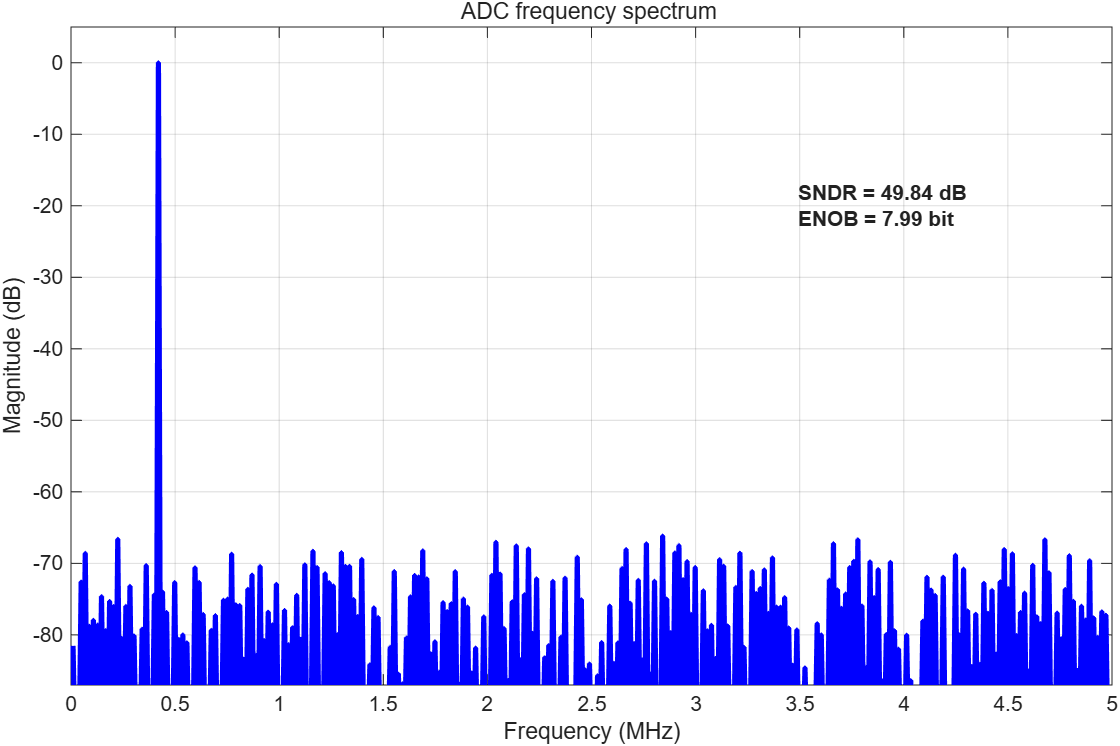
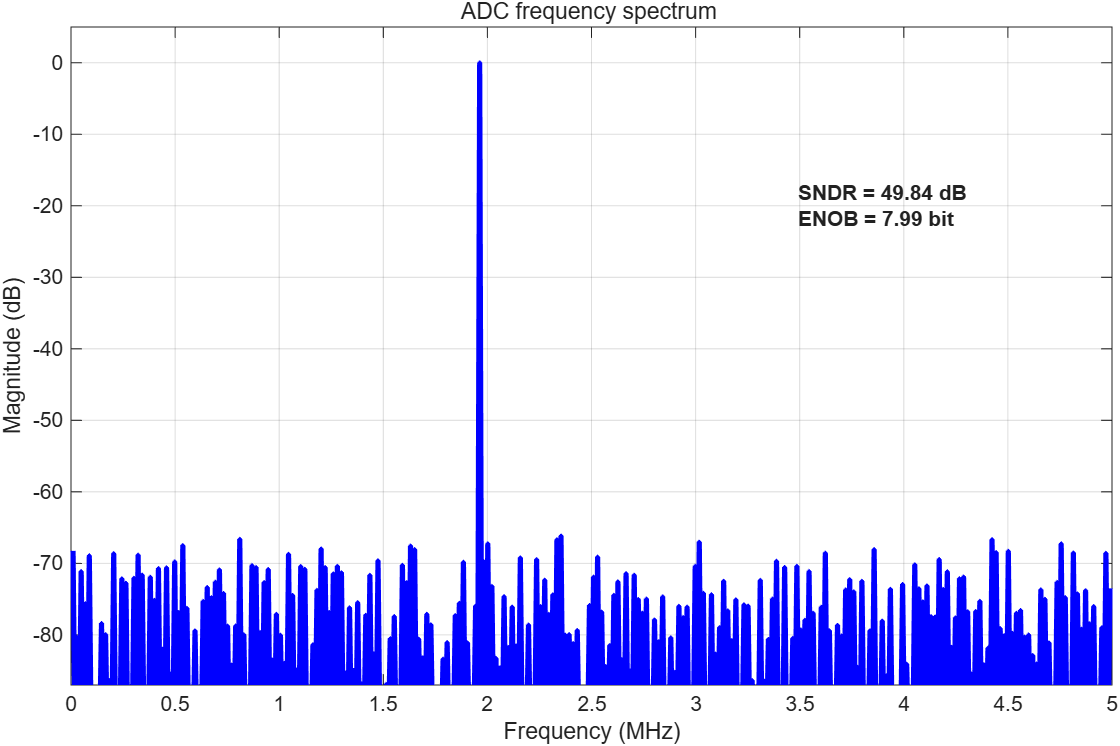
multiple frequency

Changed region(s): [[0.0625, 0.0925, 1.0, 0.9249]]

diff --git a/testbench/simConventionalSarADC.m b/testbench/simConventionalSarADC.m
@@ -13,8 +13,7 @@ p = configDynamicTest();
 
 conversionResult = nan( p.fftLen, p.adcResolution );
 decimalResult = nan( p.fftLen, 1 );
-sndrResult = nan( length(p.testMultipleFrequency), 1 );
-enobResult = nan( length(p.testMultipleFrequency), 1 );
+sndrResult = nan( length(p.testInputBin), 1 );
 
 %% generate input frequency
 
@@ -53,14 +52,14 @@ exportgraphics(obj, drawing);
 
 %% multiple frequency test
 
-for iFrequency = 1 : length( p.testMultipleFrequency )
+for iInputbin = 1 : length( p.testInputBin )
 
-  p.fin = p.testMultipleFrequency( iFrequency );
+  p.inputbin = p.testInputBin( iInputbin );
 
   %% generate input frequency
 
-  [p.fin, p.inputbin] = genInputFrequency( p );
-
+  p.fin = p.inputbin * p.fs / p.fftLen;
+  
   %% generate samples
 
   samples = genSamples( p );
@@ -80,7 +79,7 @@ for iFrequency = 1 : length( p.testMultipleFrequency )
   %% process simulation data
 
   adcDynamicPerformanceMetrics = processAdcData( p, decimalResult );
-  sndrResult( iFrequency ) = adcDynamicPerformanceMetrics.sndr;
+  sndrResult( iInputbin ) = adcDynamicPerformanceMetrics.sndr;
 
 end
 
@@ -90,5 +89,5 @@ multiFreqAnalysisObj = plotAdcMultiFrequencyDynamicResult( p, sndrResult );
 
 %% export plots
 
-drawing = 'ADC SNDR versus input frequency.png';
+drawing = 'drawing/ADC SNDR versus input frequency.png';
 exportgraphics(multiFreqAnalysisObj, drawing);

diff --git a/function/plotAdcMultiFrequencyDynamicResult.m b/function/plotAdcMultiFrequencyDynamicResult.m
@@ -3,7 +3,7 @@ function multiFreqAnalysisObj = plotAdcMultiFrequencyDynamicResult( p, sndrResul
   %% plot FFT
 
   multiFreqAnalysisObj = figure;
-  plot( p.testMultipleFrequency / 1e6, sndrResult, 'b', 'LineWidth', 2.5 );
+  plot( p.inputbin * p.fs / p.fftLen / 1e6, sndrResult, 'b', 'LineWidth', 2.5 );
   xlabel( 'Frequency (MHz)' );
   ylabel( 'Magnitude (dB)' );
   title( 'ADC SNDR versus input frequency ' );

diff --git a/sim-config/configDynamicTest.m b/sim-config/configDynamicTest.m
@@ -7,7 +7,7 @@ function p = configDynamicTest
   p.Vref = 1.2;
   p.fs = 10e6;
   p.fin = [];
-  p.testMultipleFrequency = [ 0.1e6, 0.5e6, 1e6, 2e6, 5e6 ];
+  p.testInputBin = [ 10, 51, 103, 205, 409 ];
   p.VDD = 1.2;
 
   %% CDAC specification
